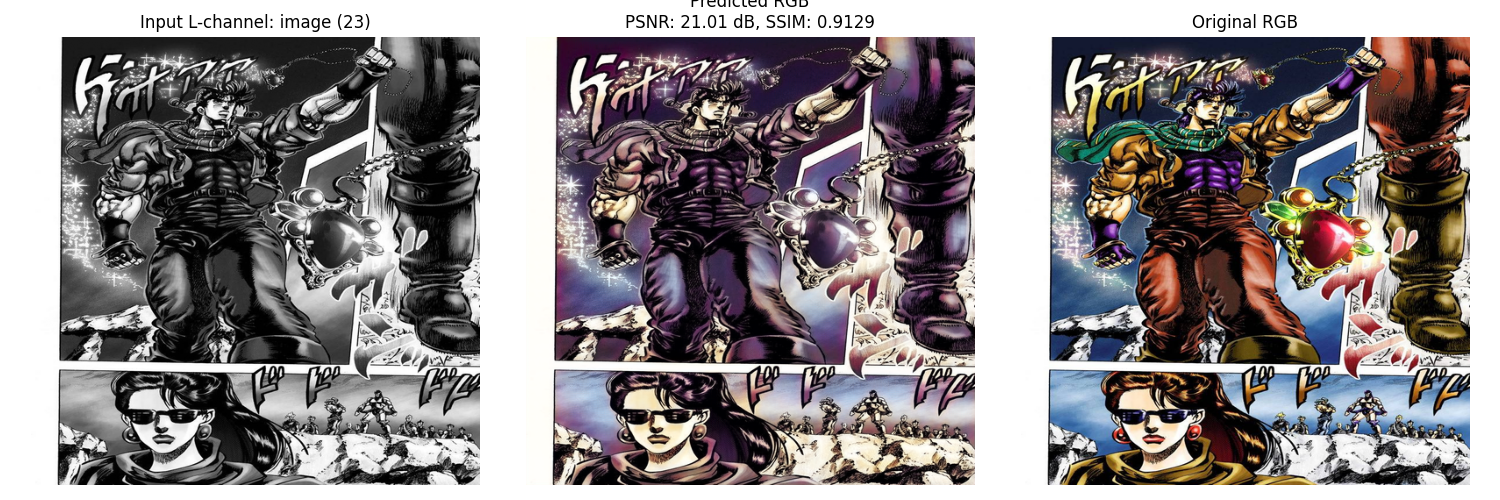
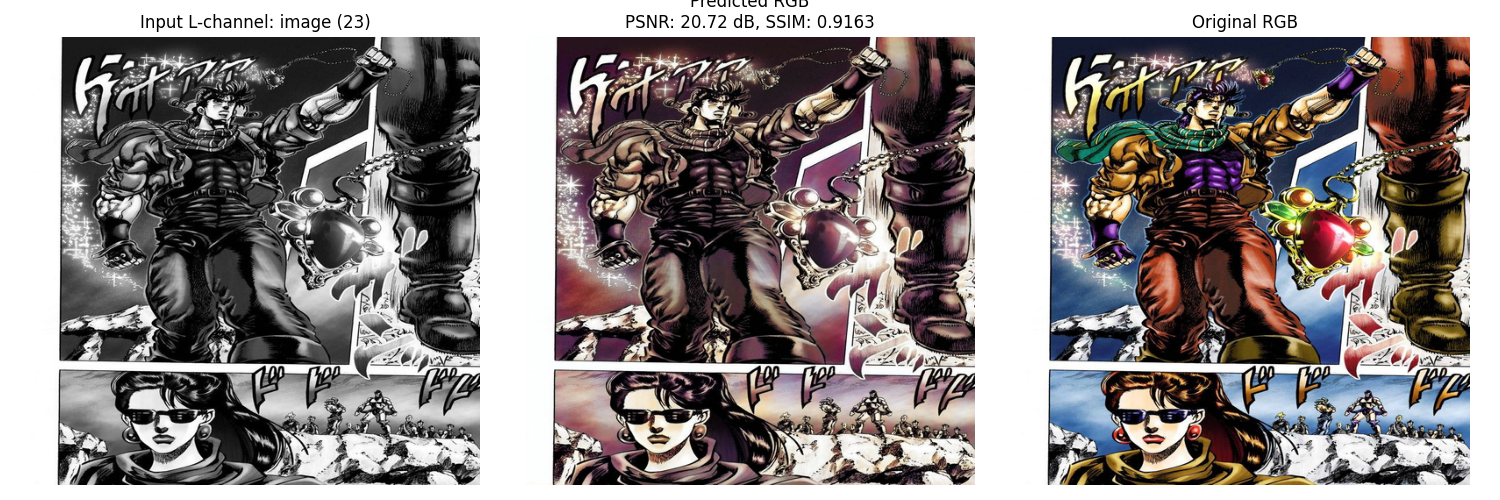
Add loss type L1

diff --git a/main.py b/main.py
@@ -44,7 +44,8 @@ if __name__ == '__main__':
     train_group.add_argument('--epochs', type=int, default=50, help="訓練的 epoch 數量。")
     train_group.add_argument('--batch_size', type=int, default=2, help="訓練的 batch_size (預設為2，因512x512圖片記憶體需求較高)。")
     train_group.add_argument('--lr', type=float, default=0.0001, help="學習率。")
-    train_group.add_argument('--model_output_template', type=str, default="trained_models/model_[model_type]_lr[lr].h5",
+    train_group.add_argument('--loss_type', type=str, choices=['mse', 'mae', 'l1'], default='mse', help="(訓練用) 要使用的損失函數類型 (mse 或 mae/l1)。如果--skip_training為True則非必要。")
+    train_group.add_argument('--model_output_template', type=str, default="trained_models/model_[model_type]_loss[loss_type]_lr[lr].h5",
                         help="儲存訓練後模型的檔案名稱模板。預設會在 'trained_models' 子資料夾下。")
 
     # === 評估參數 ===
@@ -74,6 +75,7 @@ if __name__ == '__main__':
         # 根據模板和參數確定模型將儲存的路徑
         lr_str_format = str(args.lr).replace('.', 'p')
         model_save_path = args.model_output_template.replace('[model_type]', args.model_type).replace('[lr]', lr_str_format)
+        model_save_path = model_save_path.replace('[loss_type]', args.loss_type)
         
         # 確保模型輸出資料夾存在
         model_output_dir = os.path.dirname(model_save_path)
@@ -88,7 +90,8 @@ if __name__ == '__main__':
             epochs=args.epochs,
             batch_size=args.batch_size,
             learning_rate=args.lr,
-            save_path=model_save_path # train_model 內部會使用此模板生成完整檔名並儲存
+            save_path=model_save_path, # train_model 內部會使用此模板生成完整檔名並儲存
+            loss_type=args.loss_type  # 傳遞 loss_type
         )
         final_model_path_to_evaluate = model_save_path # train_model 儲存模型於此路徑
         print(f"--- 訓練完成。模型已儲存至: {final_model_path_to_evaluate} ---")
@@ -124,11 +127,14 @@ if __name__ == '__main__':
     print(f"評估結果已儲存於: {os.path.abspath(args.eval_results_dir)}")
 
 # === 如何執行 ===
-# 1. 訓練並評估:
-# python main.py --train_bw_dir bw_images_512 --train_color_dir 1000img-paul --model_type best_version --epochs 10 --batch_size 2 --lr 0.0001 --test_l_dir path/to/your/test_l_images --test_color_dir path/to/your/test_color_images --eval_results_dir evaluation_output
+# 1. 訓練並評估 (使用 MSE):
+# python main.py --train_bw_dir bw_images_512 --train_color_dir 1000img-paul --model_type best_version --epochs 10 --batch_size 2 --lr 0.0001 --loss_type mse --test_l_dir path/to/your/test_l_images --test_color_dir path/to/your/test_color_images --eval_results_dir evaluation_output
 #
-# 2. 僅評估 (假設模型已訓練並儲存於 trained_models/model_best_version_lr0p0001.h5):
-# python main.py --skip_training --trained_model_path trained_models/model_best_version_lr0p0001.h5 --test_l_dir path/to/your/test_l_images --test_color_dir path/to/your/test_color_images --eval_results_dir evaluation_output
+# 1.1 訓練並評估 (使用 MAE):
+# python main.py --train_bw_dir bw_images_512 --train_color_dir 1000img-paul --model_type best_version --epochs 10 --batch_size 2 --lr 0.0001 --loss_type mae --test_l_dir path/to/your/test_l_images --test_color_dir path/to/your/test_color_images --eval_results_dir evaluation_output
+#
+# 2. 僅評估 (假設模型已訓練並儲存於 trained_models/model_best_version_lossmae_lr0p0001.h5):
+# python main.py --skip_training --trained_model_path trained_models/model_best_version_lossmae_lr0p0001.h5 --test_l_dir path/to/your/test_l_images --test_color_dir path/to/your/test_color_images --eval_results_dir evaluation_output
 #
 # 請將 path/to/your/test_l_images 和 path/to/your/test_color_images 替換為您實際的測試圖片資料夾路徑。
 # 訓練用的 bw_images_512 和 1000img-paul 也應為您的實際路徑。 

diff --git a/train.py b/train.py
@@ -91,7 +91,7 @@ def load_and_preprocess_data(bw_image_folder, color_image_folder, target_size=(5
     return [np.array(X_l), np.array(X_embed)], np.array(Y_ab)
 
 
-def train_model(bw_image_dir, color_image_dir, model_name, epochs, batch_size, learning_rate, save_path):
+def train_model(bw_image_dir, color_image_dir, model_name, epochs, batch_size, learning_rate, save_path, loss_type='mse'):
     print(f"開始載入資料...")
     # 假設 file_converter.py 將彩色圖片轉換為灰階並儲存在 bw_image_dir
     # color_image_dir 應該是原始彩色圖片的資料夾
@@ -103,13 +103,13 @@ def train_model(bw_image_dir, color_image_dir, model_name, epochs, batch_size, l
         print("錯誤：沒有成功載入任何訓練資料。請檢查您的圖片資料夾和檔名。")
         return
 
-    print(f"選擇模型: {model_name}")
+    print(f"選擇模型: {model_name}, 使用損失函數: {loss_type.upper()}")
     if model_name == 'unet_vgg16':
-        model = baseline.unet_vgg16(learning_rate=learning_rate)
+        model = baseline.unet_vgg16(learning_rate=learning_rate, loss_function_name=loss_type)
     elif model_name == 'best_version':
-        model = baseline.best_version(learning_rate=learning_rate)
+        model = baseline.best_version(learning_rate=learning_rate, loss_function_name=loss_type)
     elif model_name == 'unet_advanced_prelu':
-        model = baseline.unet_advanced_prelu(learning_rate=learning_rate)
+        model = baseline.unet_advanced_prelu(learning_rate=learning_rate, loss_function_name=loss_type)
     else:
         raise ValueError("未知的模型名稱。請選擇 'unet_vgg16', 'best_version' 或 'unet_advanced_prelu'。")
 
@@ -145,6 +145,7 @@ if __name__ == '__main__':
     # 修改 output_name_template 為 save_path
     parser.add_argument('--save_path', type=str, required=True, 
                         help="儲存訓練後模型的完整檔案路徑 (例如：trained_models/model_best_version_lr0p0001.h5)。")
+    parser.add_argument('--loss_type', type=str, choices=['mse', 'mae', 'l1'], default='mse', help="要使用的損失函數類型 (mse 或 mae/l1)。")
 
     args = parser.parse_args()
     
@@ -155,12 +156,12 @@ if __name__ == '__main__':
         os.makedirs(output_model_dir)
         print(f"已建立模型儲存資料夾: {output_model_dir} (來自 __main__)")
 
-    train_model(args.bw_dir, args.color_dir, args.model, args.epochs, args.batch_size, args.lr, args.save_path) # 傳遞 args.save_path
+    train_model(args.bw_dir, args.color_dir, args.model, args.epochs, args.batch_size, args.lr, args.save_path, args.loss_type) # 傳遞 args.loss_type
 
     # 如何執行 (假設 bw_images_512 和 1000img-paul):
-    # python train.py --bw_dir bw_images_512 --color_dir 1000img-paul --model best_version --epochs 10 --batch_size 2 --lr 0.0001 --save_path trained_models/my_model.h5
+    # python train.py --bw_dir bw_images_512 --color_dir 1000img-paul --model best_version --epochs 10 --batch_size 2 --lr 0.0001 --save_path trained_models/my_model.h5 --loss_type mae
 
     # 如何執行:
     # python train.py --bw_dir path/to/your/bw_images --color_dir path/to/your/original_color_images --model best_version --epochs 50 --batch_size 8 --lr 0.0001 --save_path trained_models/trained_colorizer.h5
     # 假設您的黑白圖片在 'bw_images' 資料夾，原始彩色圖片在 '1000img-paul' 資料夾:
-    # python train.py --bw_dir bw_images --color_dir 1000img-paul --model best_version --epochs 10 --batch_size 4 
+    # python train.py --bw_dir bw_images --color_dir 1000img-paul --model best_version --epochs 10 --batch_size 4 --loss_type mae 

diff --git a/baseline.py b/baseline.py
@@ -1,10 +1,10 @@
 from keras.layers import Input, Conv2D, MaxPooling2D, Reshape, RepeatVector, Conv2DTranspose, concatenate, LeakyReLU, PReLU
 from keras.models import Model
 from keras.optimizers import Adam
-from keras.losses import MeanSquaredError
+from keras.losses import MeanSquaredError, MeanAbsoluteError
 
 
-def unet_vgg16(learning_rate=0.0001):
+def unet_vgg16(learning_rate=0.0001, loss_function_name='mse'):
     print("*****unet_vgg16*****")
     encoder_input = Input(shape=(512, 512, 1,))
 
